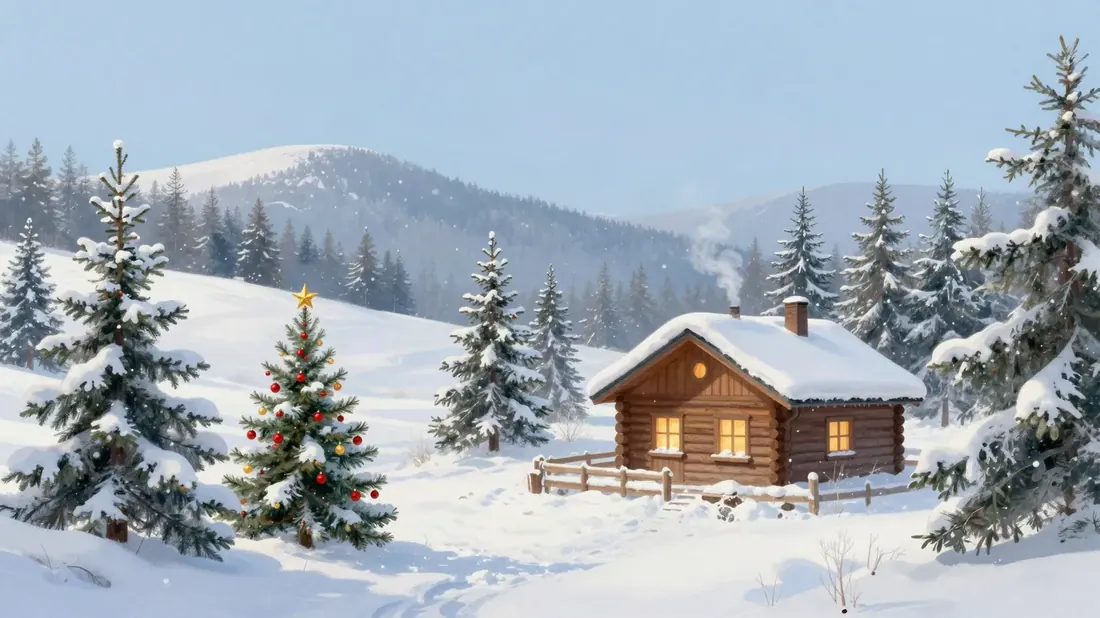
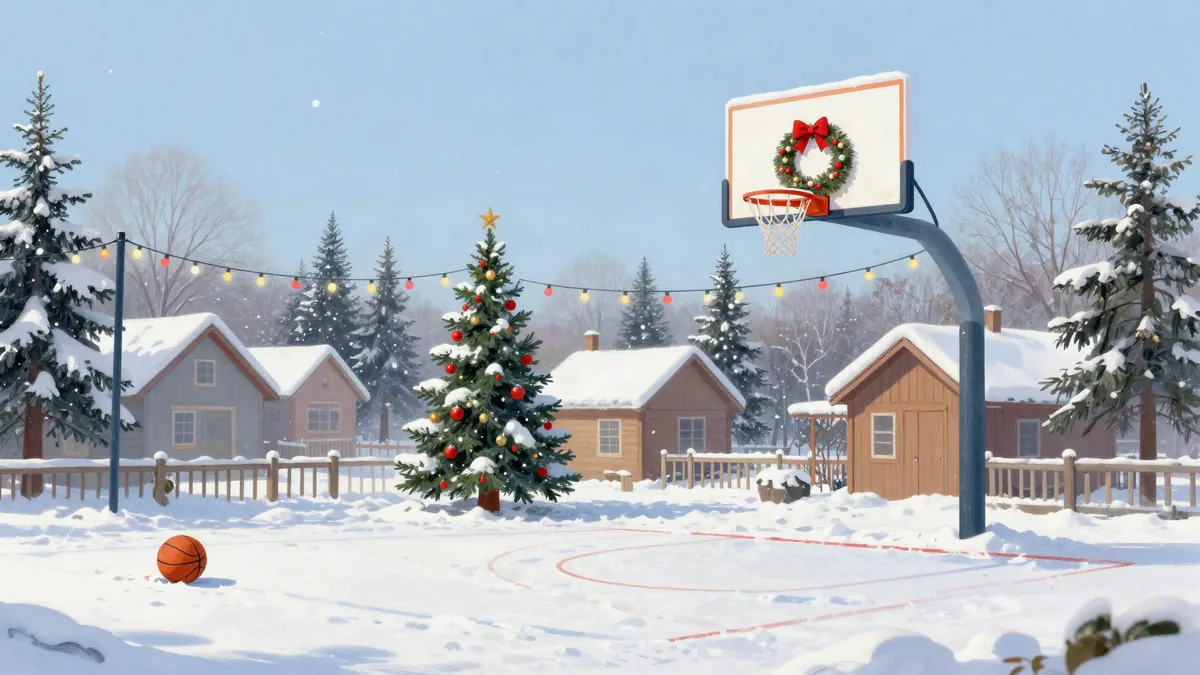
Modo Natal: sem deslizar para o lado no iPhone, neve macia, campo de basquetebol no fim da página
Claude-Session: https://claude.ai/code/session_01ShfDXDEUXDPFVHQgGFFeW1

diff --git a/docs/natal.css b/docs/natal.css
@@ -1,6 +1,9 @@
 /* Modo Natal: só carrega com html.xmas (de 1 de dezembro a 6 de janeiro, ou ligado em Ajustes → Preferências).
    Imagens em docs/natal/ (geradas no Higgsfield e recortadas; lua, neve e luzes desenhadas). */
 
+/* nada passa da largura do ecrã (o trenó a sair pela direita fazia a página deslizar para o lado no iPhone) */
+html.xmas, html.xmas body { overflow-x: clip; }
+
 /* cores: quadro verde-pinho, vermelho e dourado */
 /* (!important: as cores do tema escuro do style.css têm mais peso que html.xmas) */
 html.xmas { --board: #0D3A2A !important; --board-line: rgba(255,255,255,.14) !important; --board-fill: #F2C14E !important; --board-ball: #F2C14E !important;
@@ -12,47 +15,47 @@ html.xmas[data-theme="dark"] { --bg: #081224; --surface: #0F1C33; --surface-2: #
 
 /* céu: noite (escuro) ou inverno claro; a paisagem do fim da página casa com a cor de baixo */
 html.xmas { background: #DCEBF7; }
-html.xmas body { position: relative; padding-top: calc(66px + env(safe-area-inset-top, 0px)); padding-bottom: calc(400px + env(safe-area-inset-bottom, 0px));
+html.xmas body { position: relative; padding-top: calc(66px + env(safe-area-inset-top, 0px)); padding-bottom: calc(430px + env(safe-area-inset-bottom, 0px));
   background: radial-gradient(120% 60% at 85% 0%, #FFF6DA 0%, rgba(255,246,218,0) 55%), linear-gradient(180deg, #DCEBF7 0%, #CFE1F1 50%, #B0CBE3 100%) fixed; }
-html.xmas body::after { background-image: url("natal/dia.webp"); background-position: 68% bottom; }
+html.xmas body::after { background-image: url("natal/dia.webp"); background-position: 42% bottom; }
 html.xmas #app::before { opacity: .55; }
-html.xmas body::before { filter: drop-shadow(0 0 1.5px rgba(70,100,140,.55)); }
+html.xmas body::before { filter: drop-shadow(0 0 1px rgba(60,90,130,.7)); }
 html.xmas[data-theme="dark"] { background: #081224; }
 html.xmas[data-theme="dark"] body { background: radial-gradient(120% 60% at 85% 0%, #24406E 0%, rgba(36,64,110,0) 60%), linear-gradient(180deg, #071022 0%, #0E2346 50%, #132846 100%) fixed; }
-html.xmas[data-theme="dark"] body::after { background-image: url("natal/noite.webp"); background-position: 40% bottom; }
+html.xmas[data-theme="dark"] body::after { background-image: url("natal/noite.webp"); background-position: 33% bottom; }
 html.xmas[data-theme="dark"] #app::before { opacity: 1; }
 html.xmas[data-theme="dark"] body::before { filter: none; }
 @media (prefers-color-scheme: dark) {
   html.xmas:not([data-theme="light"]) { background: #081224; }
   html.xmas:not([data-theme="light"]) body { background: radial-gradient(120% 60% at 85% 0%, #24406E 0%, rgba(36,64,110,0) 60%), linear-gradient(180deg, #071022 0%, #0E2346 50%, #132846 100%) fixed; }
-  html.xmas:not([data-theme="light"]) body::after { background-image: url("natal/noite.webp"); background-position: 40% bottom; }
+  html.xmas:not([data-theme="light"]) body::after { background-image: url("natal/noite.webp"); background-position: 33% bottom; }
   html.xmas:not([data-theme="light"]) #app::before { opacity: 1; }
   html.xmas:not([data-theme="light"]) body::before { filter: none; }
 }
 
 /* lua (o trenó passa à frente dela) */
 html.xmas #app { position: relative; z-index: 2; }
-html.xmas #app::before { content: ""; position: absolute; top: -40px; right: -30px; width: 200px; height: 200px; z-index: -1; pointer-events: none; background: url("natal/lua.svg") no-repeat center / contain; }
+html.xmas #app::before { content: ""; position: absolute; top: -40px; right: 0; width: 170px; height: 200px; z-index: -1; pointer-events: none; background: url("natal/lua.svg") no-repeat 30px center / 200px 200px; }
 
 /* neve em 3 camadas (a de perto maior e mais rápida) */
 html.xmas body::before { content: ""; position: fixed; inset: -320px 0 0; z-index: 1; pointer-events: none;
   background: url("natal/neve3.svg") repeat, url("natal/neve2.svg") repeat, url("natal/neve1.svg") repeat;
-  background-size: 420px 420px, 320px 320px, 220px 220px; animation: xm-snow 30s linear infinite; }
-@keyframes xm-snow { from { background-position: 0 0, 0 0, 0 0; } to { background-position: 60px 420px, -40px 320px, 20px 220px; } }
+  background-size: 440px 440px, 360px 360px, 300px 300px; animation: xm-snow 40s linear infinite; }
+@keyframes xm-snow { from { background-position: 0 0, 0 0, 0 0; } to { background-position: 88px 880px, -36px 720px, 30px 300px; } }
 
-/* paisagem no fim da página (árvore iluminada e cabana) */
-html.xmas body::after { content: ""; position: absolute; left: 0; right: 0; bottom: calc(76px + env(safe-area-inset-bottom, 0px)); height: 330px; z-index: 0; pointer-events: none;
+/* paisagem no fim da página: campo de basquetebol com neve (noite no escuro, dia no claro) */
+html.xmas body::after { content: ""; position: absolute; left: 0; right: 0; bottom: calc(76px + env(safe-area-inset-bottom, 0px)); height: 360px; z-index: 0; pointer-events: none;
   background-repeat: no-repeat; background-size: cover;
   -webkit-mask: linear-gradient(180deg, transparent 0, #000 28%); mask: linear-gradient(180deg, transparent 0, #000 28%); }
 
 /* grinalda pendurada no topo */
-html.xmas::before { content: ""; position: absolute; left: -10px; right: -10px; top: env(safe-area-inset-top, 0px); height: 64px; z-index: 3; pointer-events: none;
+html.xmas::before { content: ""; position: absolute; left: 0; right: 0; top: env(safe-area-inset-top, 0px); height: 64px; z-index: 3; pointer-events: none;
   background: url("natal/grinalda.webp") repeat-x center / auto 100%; filter: drop-shadow(0 3px 4px rgba(0,0,0,.3)); }
 
 /* Pai Natal com as renas a atravessar o céu, por cima da grinalda (onde não há texto) */
-html.xmas::after { content: ""; position: absolute; top: calc(4px + env(safe-area-inset-top, 0px)); left: 0; width: 180px; height: 52px; z-index: 4; pointer-events: none;
-  background: url("natal/treno.webp") no-repeat center / contain; transform: translateX(-240px); animation: xm-fly 28s ease-in-out infinite; filter: drop-shadow(0 2px 6px rgba(0,0,0,.35)); }
-@keyframes xm-fly { 0% { transform: translate(-240px, 30px) rotate(-4deg); } 40% { transform: translate(calc(100vw + 40px), -10px) rotate(-4deg); } 100% { transform: translate(calc(100vw + 40px), -10px) rotate(-4deg); } }
+html.xmas::after { content: ""; position: absolute; top: calc(4px + env(safe-area-inset-top, 0px)); left: 0; right: 0; height: 52px; z-index: 4; pointer-events: none;
+  background: url("natal/treno.webp") no-repeat -200px 0 / 180px 52px; animation: xm-fly 28s ease-in-out infinite; filter: drop-shadow(0 2px 6px rgba(0,0,0,.35)); }
+@keyframes xm-fly { 0% { background-position: -200px 10px; } 40% { background-position: calc(100% + 200px) 0; } 100% { background-position: calc(100% + 200px) 0; } }
 
 /* luzes de cor no cartão principal (o preto da imagem desaparece com "screen") */
 html.xmas .card.hero { padding-top: 92px; }

diff --git a/test/ui_test.py b/test/ui_test.py
@@ -830,6 +830,9 @@ with sync_playwright() as pw:
     pg.click('#tab-ajustes button[data-action="xmas"][data-v="on"]'); pg.wait_for_timeout(600)
     xm = pg.evaluate('[document.documentElement.classList.contains("xmas"), !!document.getElementById("xmasCss"), getComputedStyle(document.documentElement, "::before").backgroundImage.includes("grinalda"), localStorage.getItem("fb-xmas")]')
     pg.screenshot(path=str(shots / 'natal-ajustes.png'))
+    # a página nunca fica mais larga que o ecrã (o trenó a sair pela direita fazia-a deslizar para o lado no iPhone)
+    wx = [pg.evaluate("(t => { document.getAnimations().forEach(a => { a.pause(); a.currentTime = t }); return document.documentElement.scrollWidth - innerWidth })(" + str(ms) + ")") for ms in (0, 5000, 11000, 20000)]
+    print('G modo Natal sem deslizar para o lado:', wx, '· ok' if max(wx) <= 0 else '· ERRO')
     pg.click('#tab-ajustes button[data-action="xmas"][data-v="off"]'); pg.wait_for_timeout(300)
     xo = pg.evaluate('[document.documentElement.classList.contains("xmas"), localStorage.getItem("fb-xmas")]')
     pg.click('#tab-ajustes button[data-action="xmas"][data-v="auto"]'); pg.wait_for_timeout(200)

diff --git a/CHANGELOG.md b/CHANGELOG.md
@@ -4,6 +4,7 @@ O que muda no site, do mais recente para o mais antigo. Cada mudança que entra 
 (regras no `CLAUDE.md`): **quem** — o quê, em palavras de quem usa o site (e o n.º do Pull Request, se houver).
 
 ## 2026-11-17
+- **João** — Modo Natal: a página já não desliza para o lado no iPhone (o trenó saía pela direita); neve mais macia e sem flocos cortados; no fim da página, um campo de basquetebol com neve (noite e dia).
 - **João** — Modo Natal (Ajustes → Preferências: Em dezembro, Ligado ou Desligado): neve a cair, grinalda no topo, Pai Natal com as renas, luzes de cor no cartão do dia, gorros nos jogadores, bola com gorro na vitória e paisagem de Natal no fim da página. Em dezembro liga sozinho até 6 de janeiro.
 - **João** — Leituras do Top Shot (Admin) em três botões: Dia a dia (todas as manhãs), Preços (jogadores, cartas, Pro e lendas do Historic, de 3 em 3 dias) e Run nova. Corrigido o $NaN nos preços das cartas das lendas (Historic → Comprar). Leitor v38.
 - **João** — Ler as odds no Admin passa a correr na hora (o Supabase acorda a tarefa no GitHub); falta o João guardar a chave do GitHub no Vault do Supabase e correr o `schema.sql`.

diff --git a/notas/site-historia.md b/notas/site-historia.md
@@ -190,4 +190,5 @@ Nota: esta sessão do Claude não tem a conta GitHub ligada nem chega ao Supabas
 
 ## Modo Natal (17 nov 2026)
 - `docs/natal.css` + `docs/natal/` (imagens geradas no Higgsfield, modelo Z Image no plano grátis, recortadas do fundo verde/rosa; lua, neve desenhadas em SVG). Só carrega com `html.xmas`: `applyXmas()` em `app.js`, preferência `fb-xmas` (auto = 1 dez – 6 jan, on, off) em Ajustes → Preferências.
+- 17 nov (à noite): no iPhone a página deslizava para o lado porque o trenó (transform até 100vw + 220px) e a lua (right: -30px) passavam da largura; agora o trenó anda pelo background-position numa faixa da largura do ecrã, e html/body têm overflow-x: clip. Teste: scrollWidth = innerWidth.
 - Escolhas do João: luzes de cor em dois fios (não as lâmpadas grandes nem as douradas), grinalda direita com laço, sem neve por cima dos cartões. A bola gerada tinha uma costura a mais: apagada à mão.
